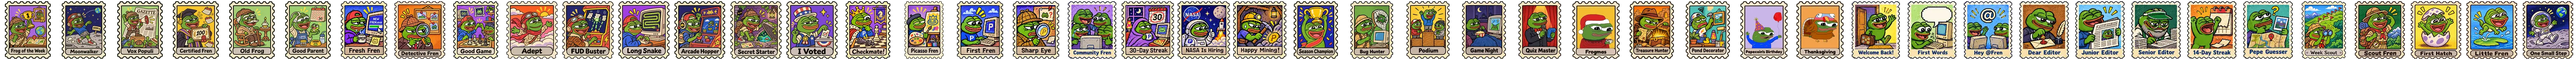
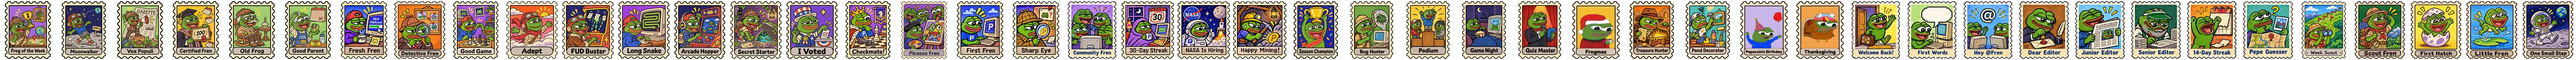
Fren Passport: Picasso Fren at full size in the album
Claude-Session: https://claude.ai/code/session_01SctNbEwhZRdeddUC8uPHy2

Changed region(s): [[0.3431, 0.0, 0.3743, 0.9867]]

diff --git a/docs/meme/passport.css b/docs/meme/passport.css
@@ -20,7 +20,7 @@
 .pp-art-stamp { width: 46px; aspect-ratio: 69 / 75; background-image: url(passport-assets/stamps.webp?v=20261106pp1); background-size: 1600% 100%; }
 /* Lily's stamps: one row of 15 tiles drawn at 2x (scripts/build_lily_stamps.mjs) */
 .pp-art-stamp.is-lily { background-image: url(passport-assets/stamps-lily.webp?v=20261106lily1); background-size: 1500% 100%; }
-.pp-art-stamp.is-v3 { background-image: url(passport-assets/stamps-v3.webp?v=20261109fin); background-size: 4600% 100%; }
+.pp-art-stamp.is-v3 { background-image: url(passport-assets/stamps-v3.webp?v=20261109pic); background-size: 4600% 100%; }
 .pp-art-icon { width: 24px; height: 24px; background-image: url(passport-assets/icons.webp?v=20261106pp1); background-size: 1200% 100%; }
 
 /* Overview: booklet + side panels */

diff --git a/docs/meme/meme.js b/docs/meme/meme.js
@@ -1651,7 +1651,7 @@
   var PP_CATALOG = 'passport-catalog.json?v=20261109sp';
   function passportCss() {
     if (!document.getElementById('fren-passport-css')) {
-      document.head.appendChild(el('link', {id:'fren-passport-css',rel:'stylesheet',href:'passport.css?v=20261109gc'}));
+      document.head.appendChild(el('link', {id:'fren-passport-css',rel:'stylesheet',href:'passport.css?v=20261109pic'}));
     }
   }
   // ?beta=fren test preview: while the passport functions are not on the server yet (or the tester is not

diff --git a/docs/meme/mining.html b/docs/meme/mining.html
@@ -215,7 +215,7 @@
 
 <footer class="foot"></footer>
 <script src="../prices.js?v=20261106quote"></script>
-<script src="meme.js?v=20261109gc"></script>
+<script src="meme.js?v=20261109pic"></script>
 <script>
 (function () {
   // same arithmetic as the serious page (mining-calc.js): share of the network hashrate x blocks a day x 10,000 PEP, minus the pool fee

diff --git a/docs/meme/calculator.html b/docs/meme/calculator.html
@@ -245,7 +245,7 @@ th.plain { font: 700 0.95rem var(--f-body); text-transform: none; letter-spacing
 
 <footer class="foot"></footer>
 <script src="../prices.js?v=20261106quote"></script>
-<script src="meme.js?v=20261109gc"></script>
+<script src="meme.js?v=20261109pic"></script>
 <script src="../live.js?v=20261012d" defer></script>
 <script>
 (function () {

diff --git a/docs/meme/price.html b/docs/meme/price.html
@@ -285,7 +285,7 @@ img.pow-logo { background: #fff; }
 
 <footer class="foot"></footer>
 <script src="../prices.js?v=20261106quote"></script>
-<script src="meme.js?v=20261109gc"></script>
+<script src="meme.js?v=20261109pic"></script>
 <script src="../live.js?v=20261012d" defer></script>
 <script src="../price.js?v=20261031data1" defer></script>
 <script>

diff --git a/docs/meme/which-pepecoin.html b/docs/meme/which-pepecoin.html
@@ -225,7 +225,7 @@ code { font: 700 0.92em/1.3 var(--f-mono); background: var(--paper); border: 1.5
 
 <footer class="foot"></footer>
 <script src="../prices.js?v=20261106quote"></script>
-<script src="meme.js?v=20261109gc"></script>
+<script src="meme.js?v=20261109pic"></script>
 <script>
 (function () {
   // copy buttons for the contract addresses

diff --git a/docs/meme/compare.html b/docs/meme/compare.html
@@ -269,7 +269,7 @@ code { font: 700 0.95em/1.3 var(--f-mono); background: var(--paper); border: 1.5
 
 <footer class="foot"></footer>
 <script src="../prices.js?v=20261106quote"></script>
-<script src="meme.js?v=20261109gc"></script>
+<script src="meme.js?v=20261109pic"></script>
 <script>
 (function () {
   'use strict';

diff --git a/docs/meme/scrypt-family.html b/docs/meme/scrypt-family.html
@@ -292,6 +292,6 @@ blockquote.pull footer { font-size: 0.9rem; color: var(--muted); }
 
 <footer class="foot"></footer>
 <script src="../prices.js?v=20261106quote"></script>
-<script src="meme.js?v=20261109gc"></script>
+<script src="meme.js?v=20261109pic"></script>
 </body>
 </html>

diff --git a/docs/meme/supply.html b/docs/meme/supply.html
@@ -281,7 +281,7 @@
 
 <footer class="foot"></footer>
 <script src="../prices.js?v=20261106quote"></script>
-<script src="meme.js?v=20261109gc"></script>
+<script src="meme.js?v=20261109pic"></script>
 <script src="../live.js?v=20261012d" defer></script>
 <script>
 (function () {

diff --git a/docs/meme/index.html b/docs/meme/index.html
@@ -298,7 +298,7 @@
 
 <footer class="foot"></footer>
 <script src="../prices.js?v=20261106quote"></script>
-<script src="meme.js?v=20261109gc"></script>
+<script src="meme.js?v=20261109pic"></script>
 <script>
 (function () {
   var M = window.Meme, f = M.fmt;

diff --git a/docs/meme/rich-list.html b/docs/meme/rich-list.html
@@ -134,7 +134,7 @@
 
 <footer class="foot"></footer>
 <script src="../prices.js?v=20261106quote"></script>
-<script src="meme.js?v=20261109gc"></script>
+<script src="meme.js?v=20261109pic"></script>
 <script>
 (function () {
   var M = window.Meme, f = M.fmt;

diff --git a/docs/meme/network.html b/docs/meme/network.html
@@ -157,7 +157,7 @@
 
 <footer class="foot"></footer>
 <script src="../prices.js?v=20261106quote"></script>
-<script src="meme.js?v=20261109gc"></script>
+<script src="meme.js?v=20261109pic"></script>
 <script>
 (function () {
   'use strict';
